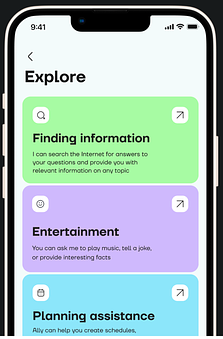
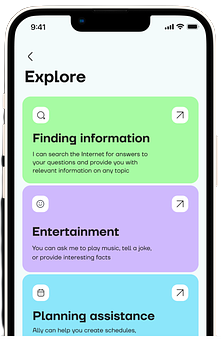
change images to original images

Changed region(s): [[0.0, 0.0, 1.0, 1.0]]

diff --git a/assets/styles/styles.css b/assets/styles/styles.css
@@ -414,7 +414,7 @@
   .division-one .section-one {
     margin-left: 80px;
     width: 50vw;
-    margin: 100px 100px 20px 100px;
+    margin: 100px 10px 20px 100px;
   }
 
   .section-title {
@@ -458,11 +458,9 @@
   }
 
   .section-two img {
-    /* padding-top: 20px; */
     width: 100%;
     height: auto;
     margin-top: 40px;
-    border-radius: 10px;
   }
 
 

diff --git a/index.html b/index.html
@@ -59,7 +59,7 @@
             </section>
 
             <section class="section-two">
-                <img src="./assets/images/first pic.png" alt="phone">
+                <img src="./assets/images/first_pic.png" alt="phone">
             </section>
         </section>
 
